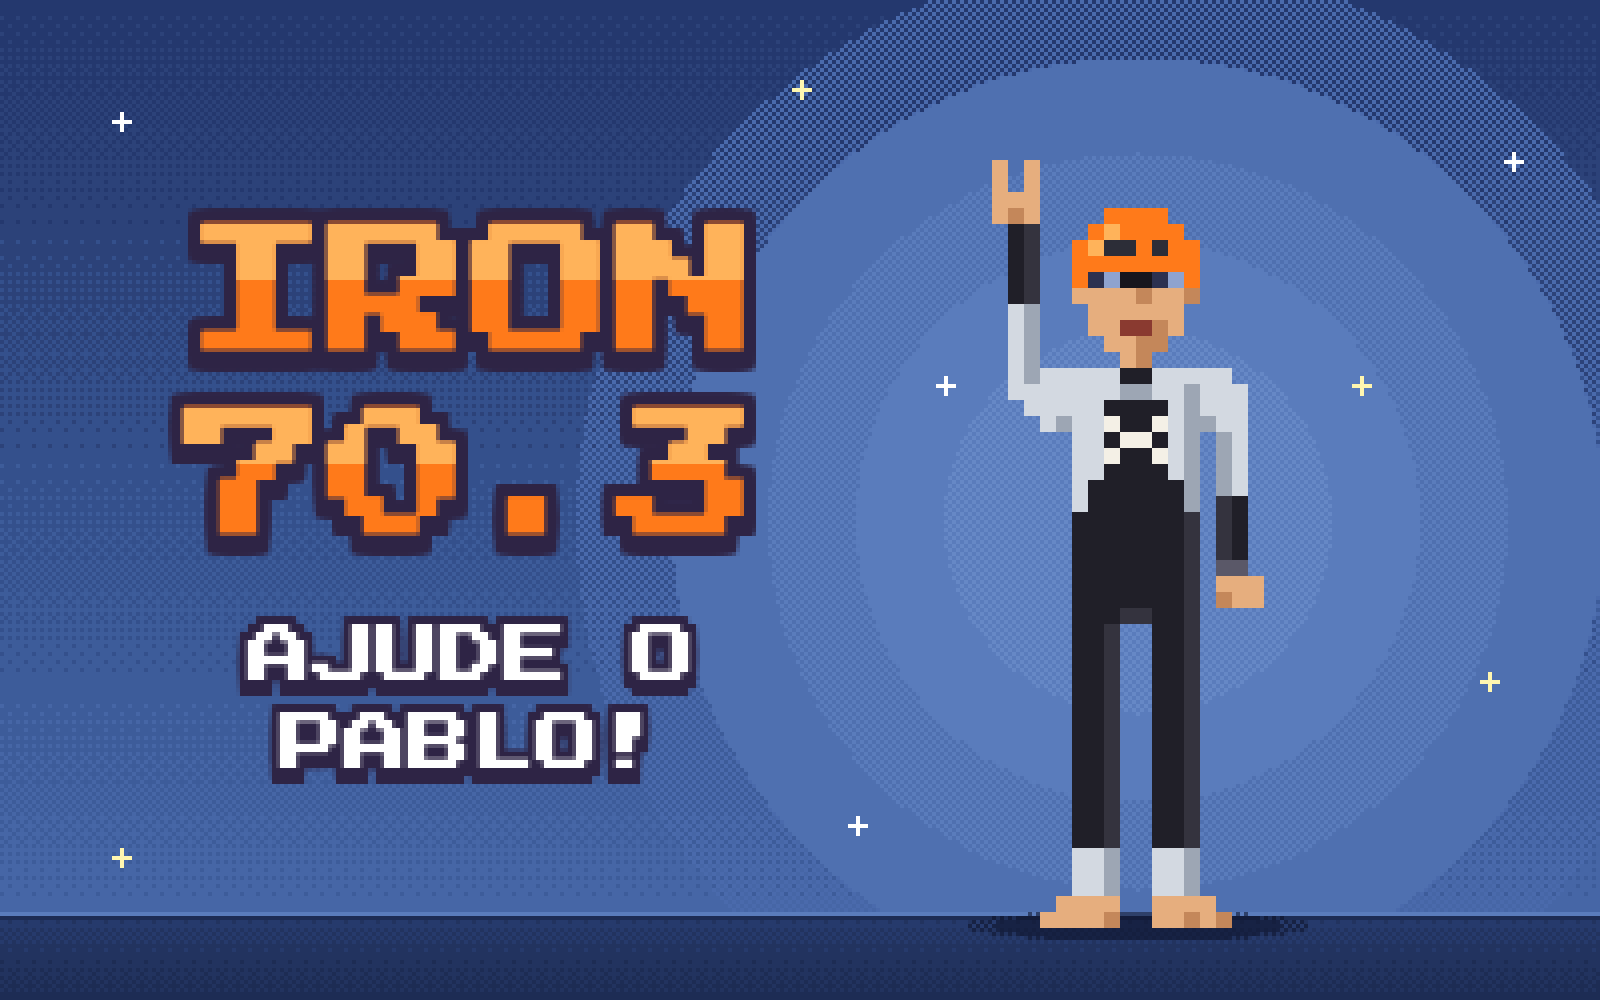
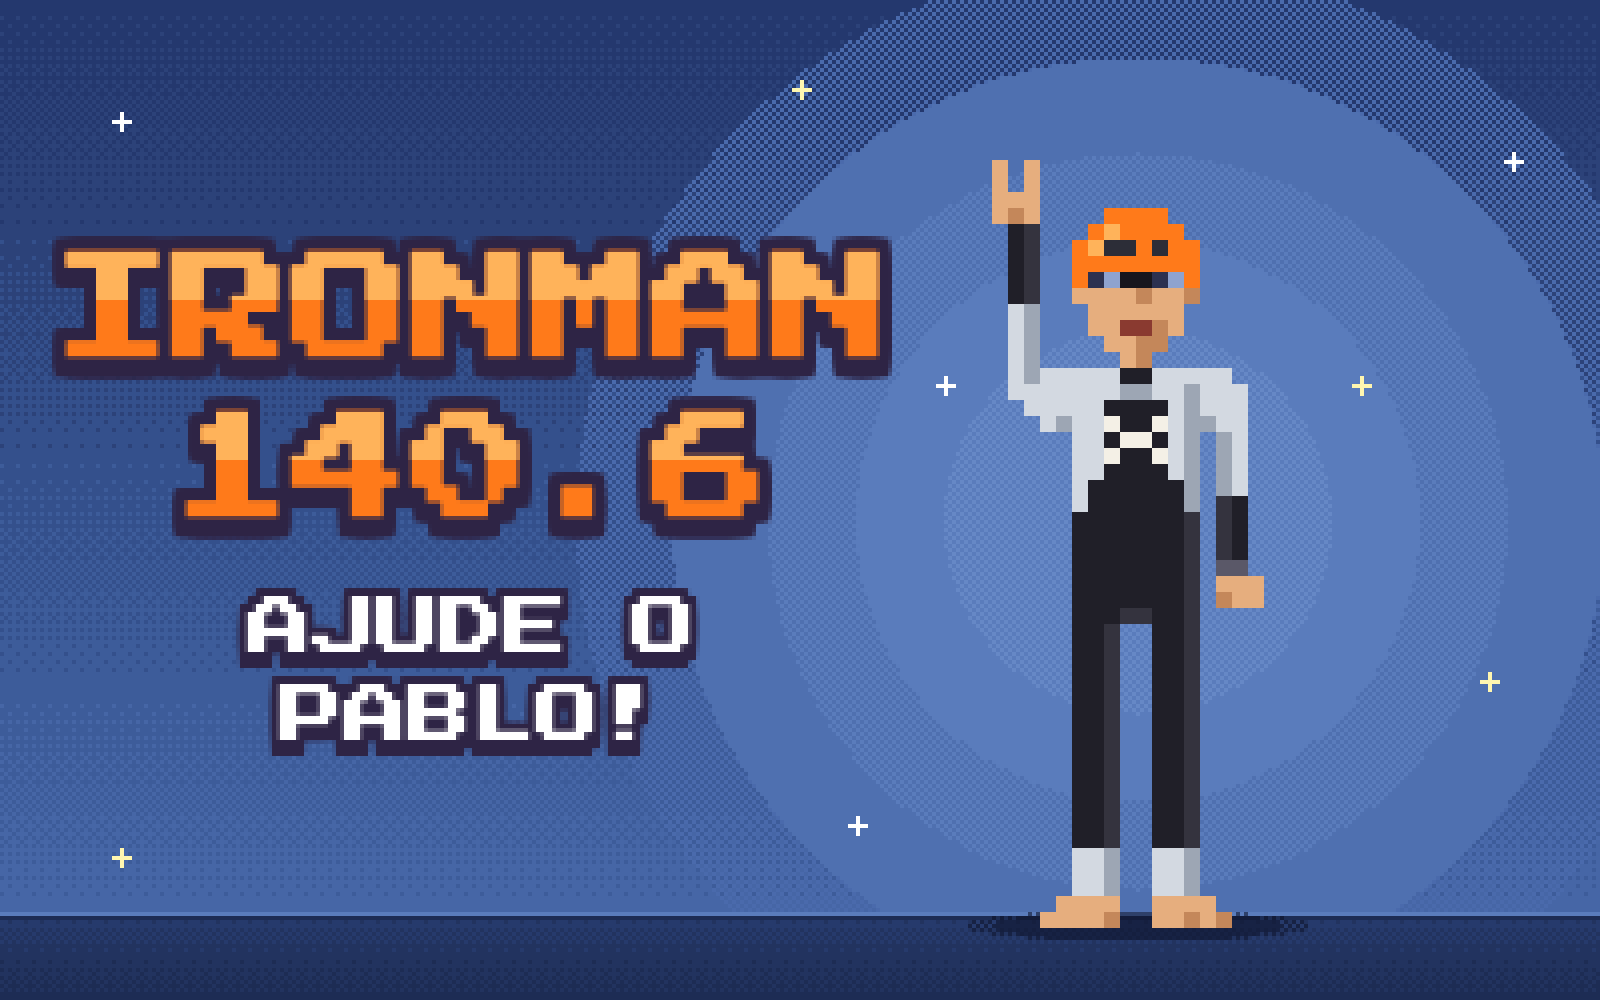
Trocar o card do jogo do Pablo para Ironman 140.6 (título e capa)

Changed region(s): [[0.0312, 0.186, 0.5625, 0.558], [0.125, 0.589, 0.4375, 0.806]]

diff --git a/js/fun-data.js b/js/fun-data.js
@@ -87,7 +87,7 @@ const FUN = {
     // },
     {
       id: "iron-pablito",
-      title: "Iron 70.3",
+      title: "Ironman 140.6",
       tagline: {
         pt: "Ajude o Pablo a nadar, pedalar e correr até a linha de chegada.",
         en: "Help Pablo swim, bike and run all the way to the finish line.",

diff --git a/fun.html b/fun.html
@@ -73,7 +73,7 @@
     </div>
   </footer>
 
-  <script src="js/fun-data.js?v=8"></script>
+  <script src="js/fun-data.js?v=9"></script>
   <script src="js/fun.js?v=12"></script>
 </body>
 </html>
